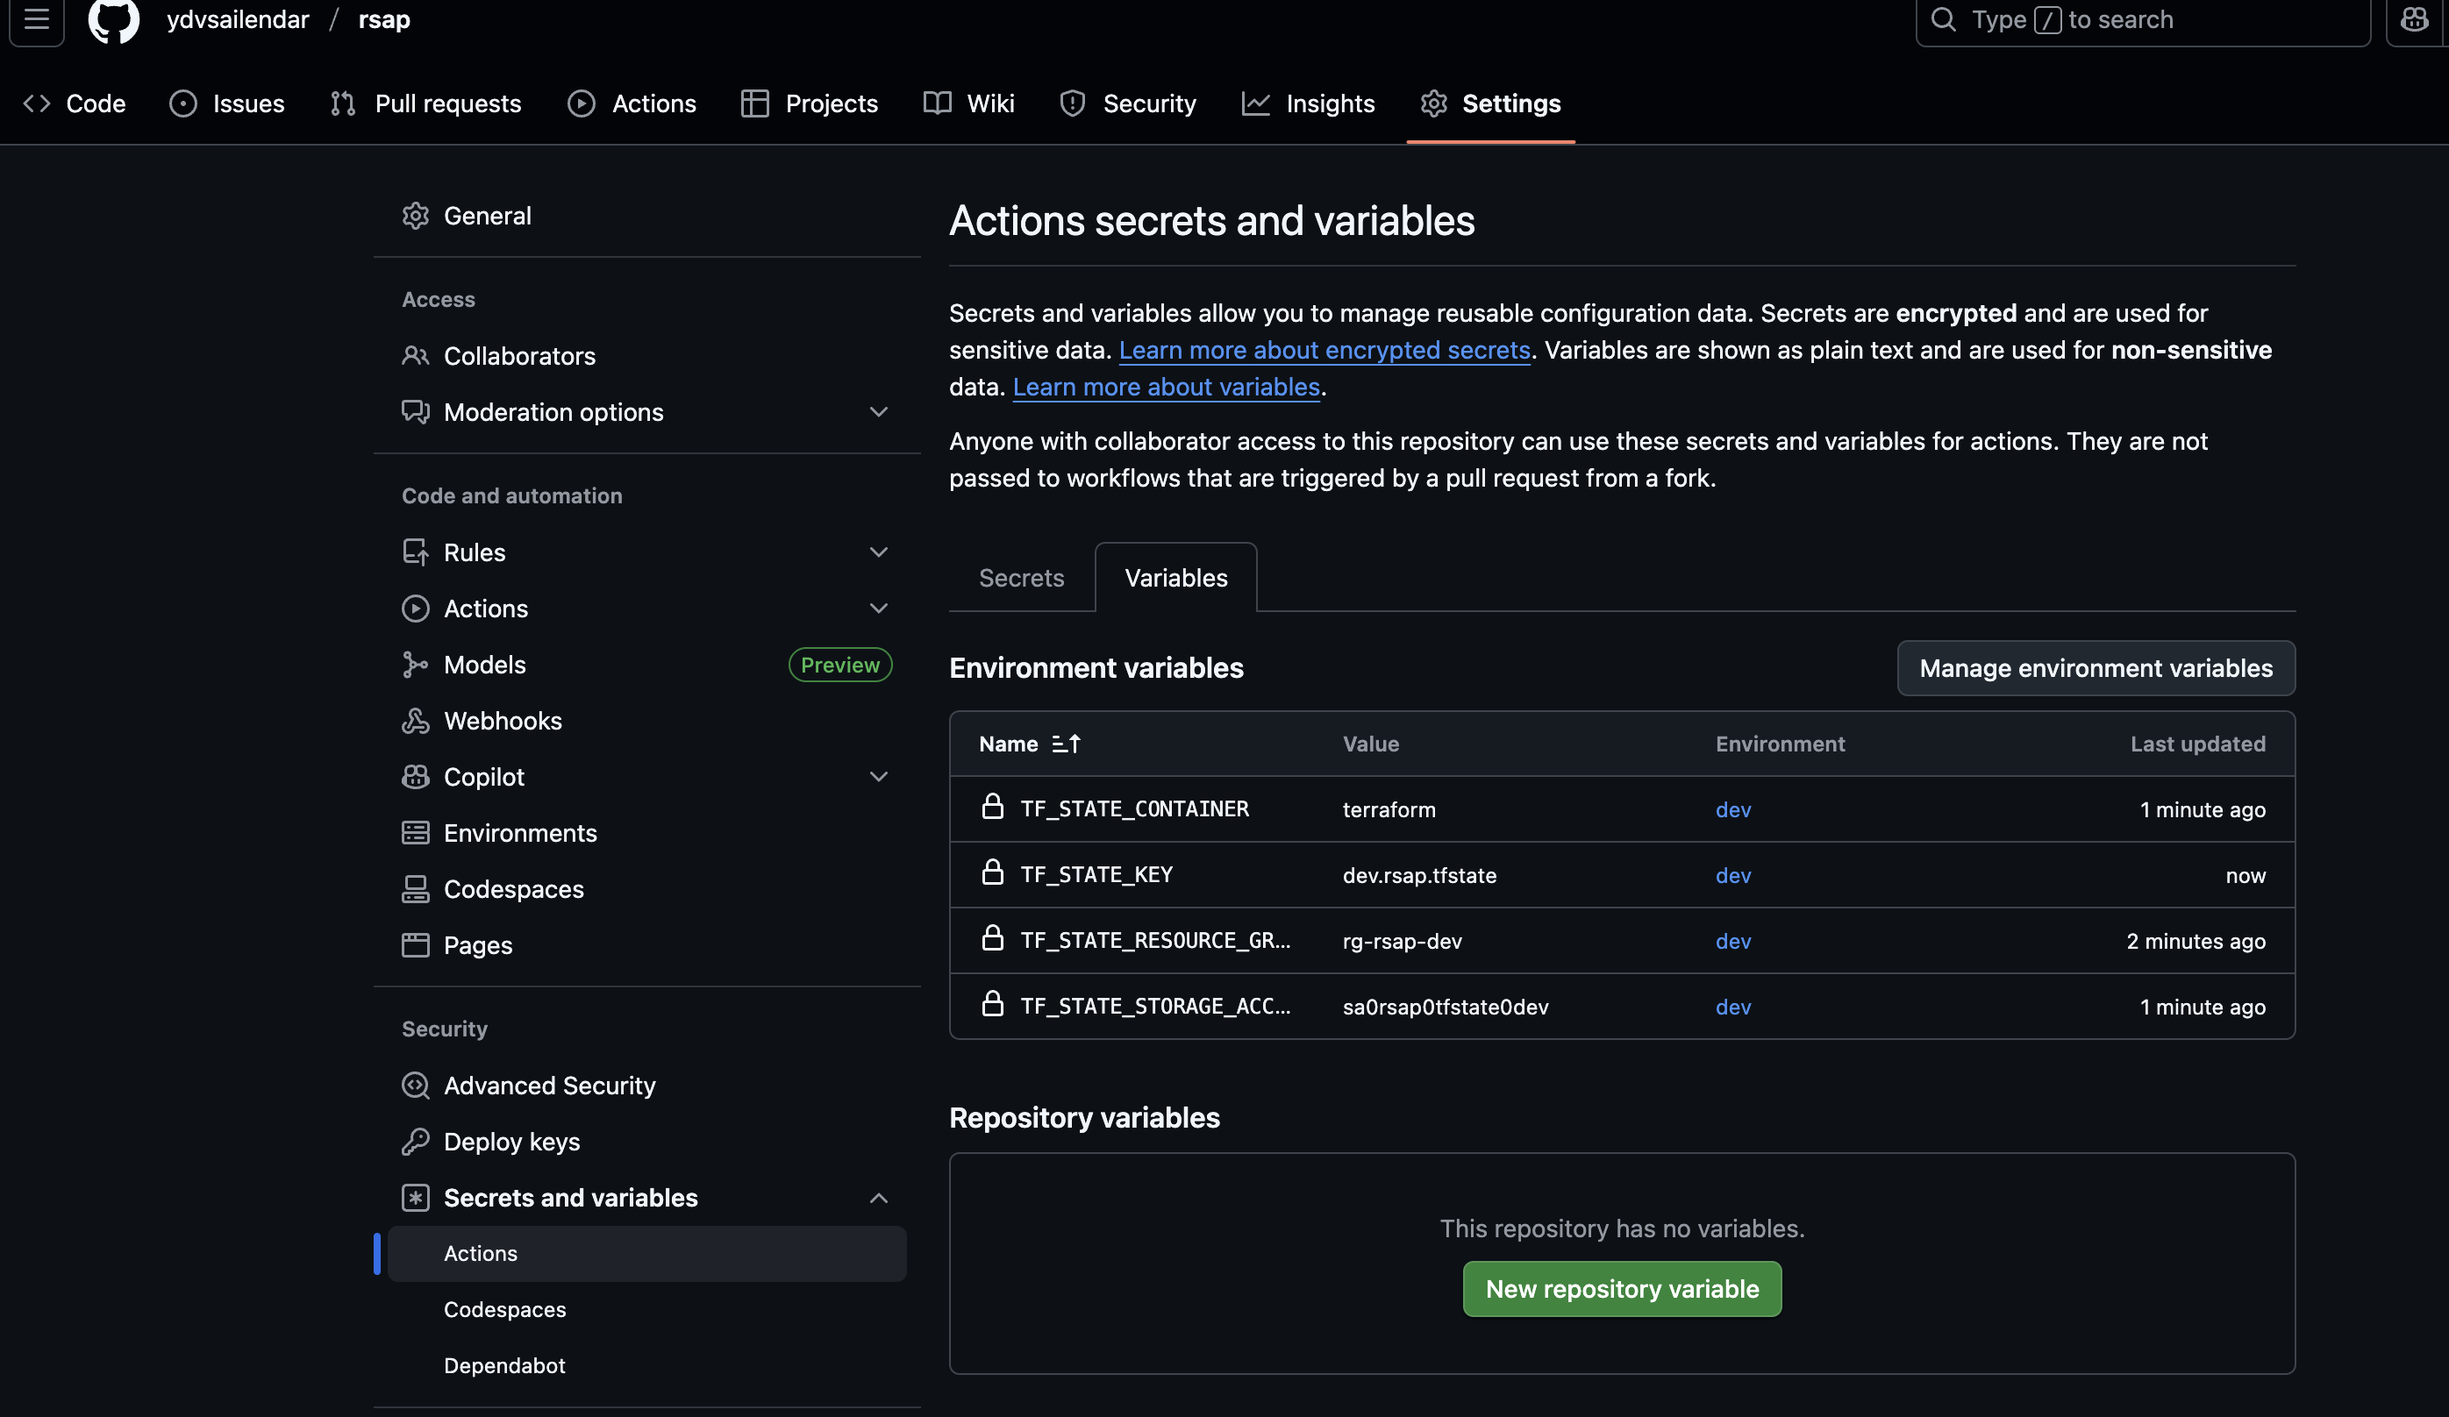
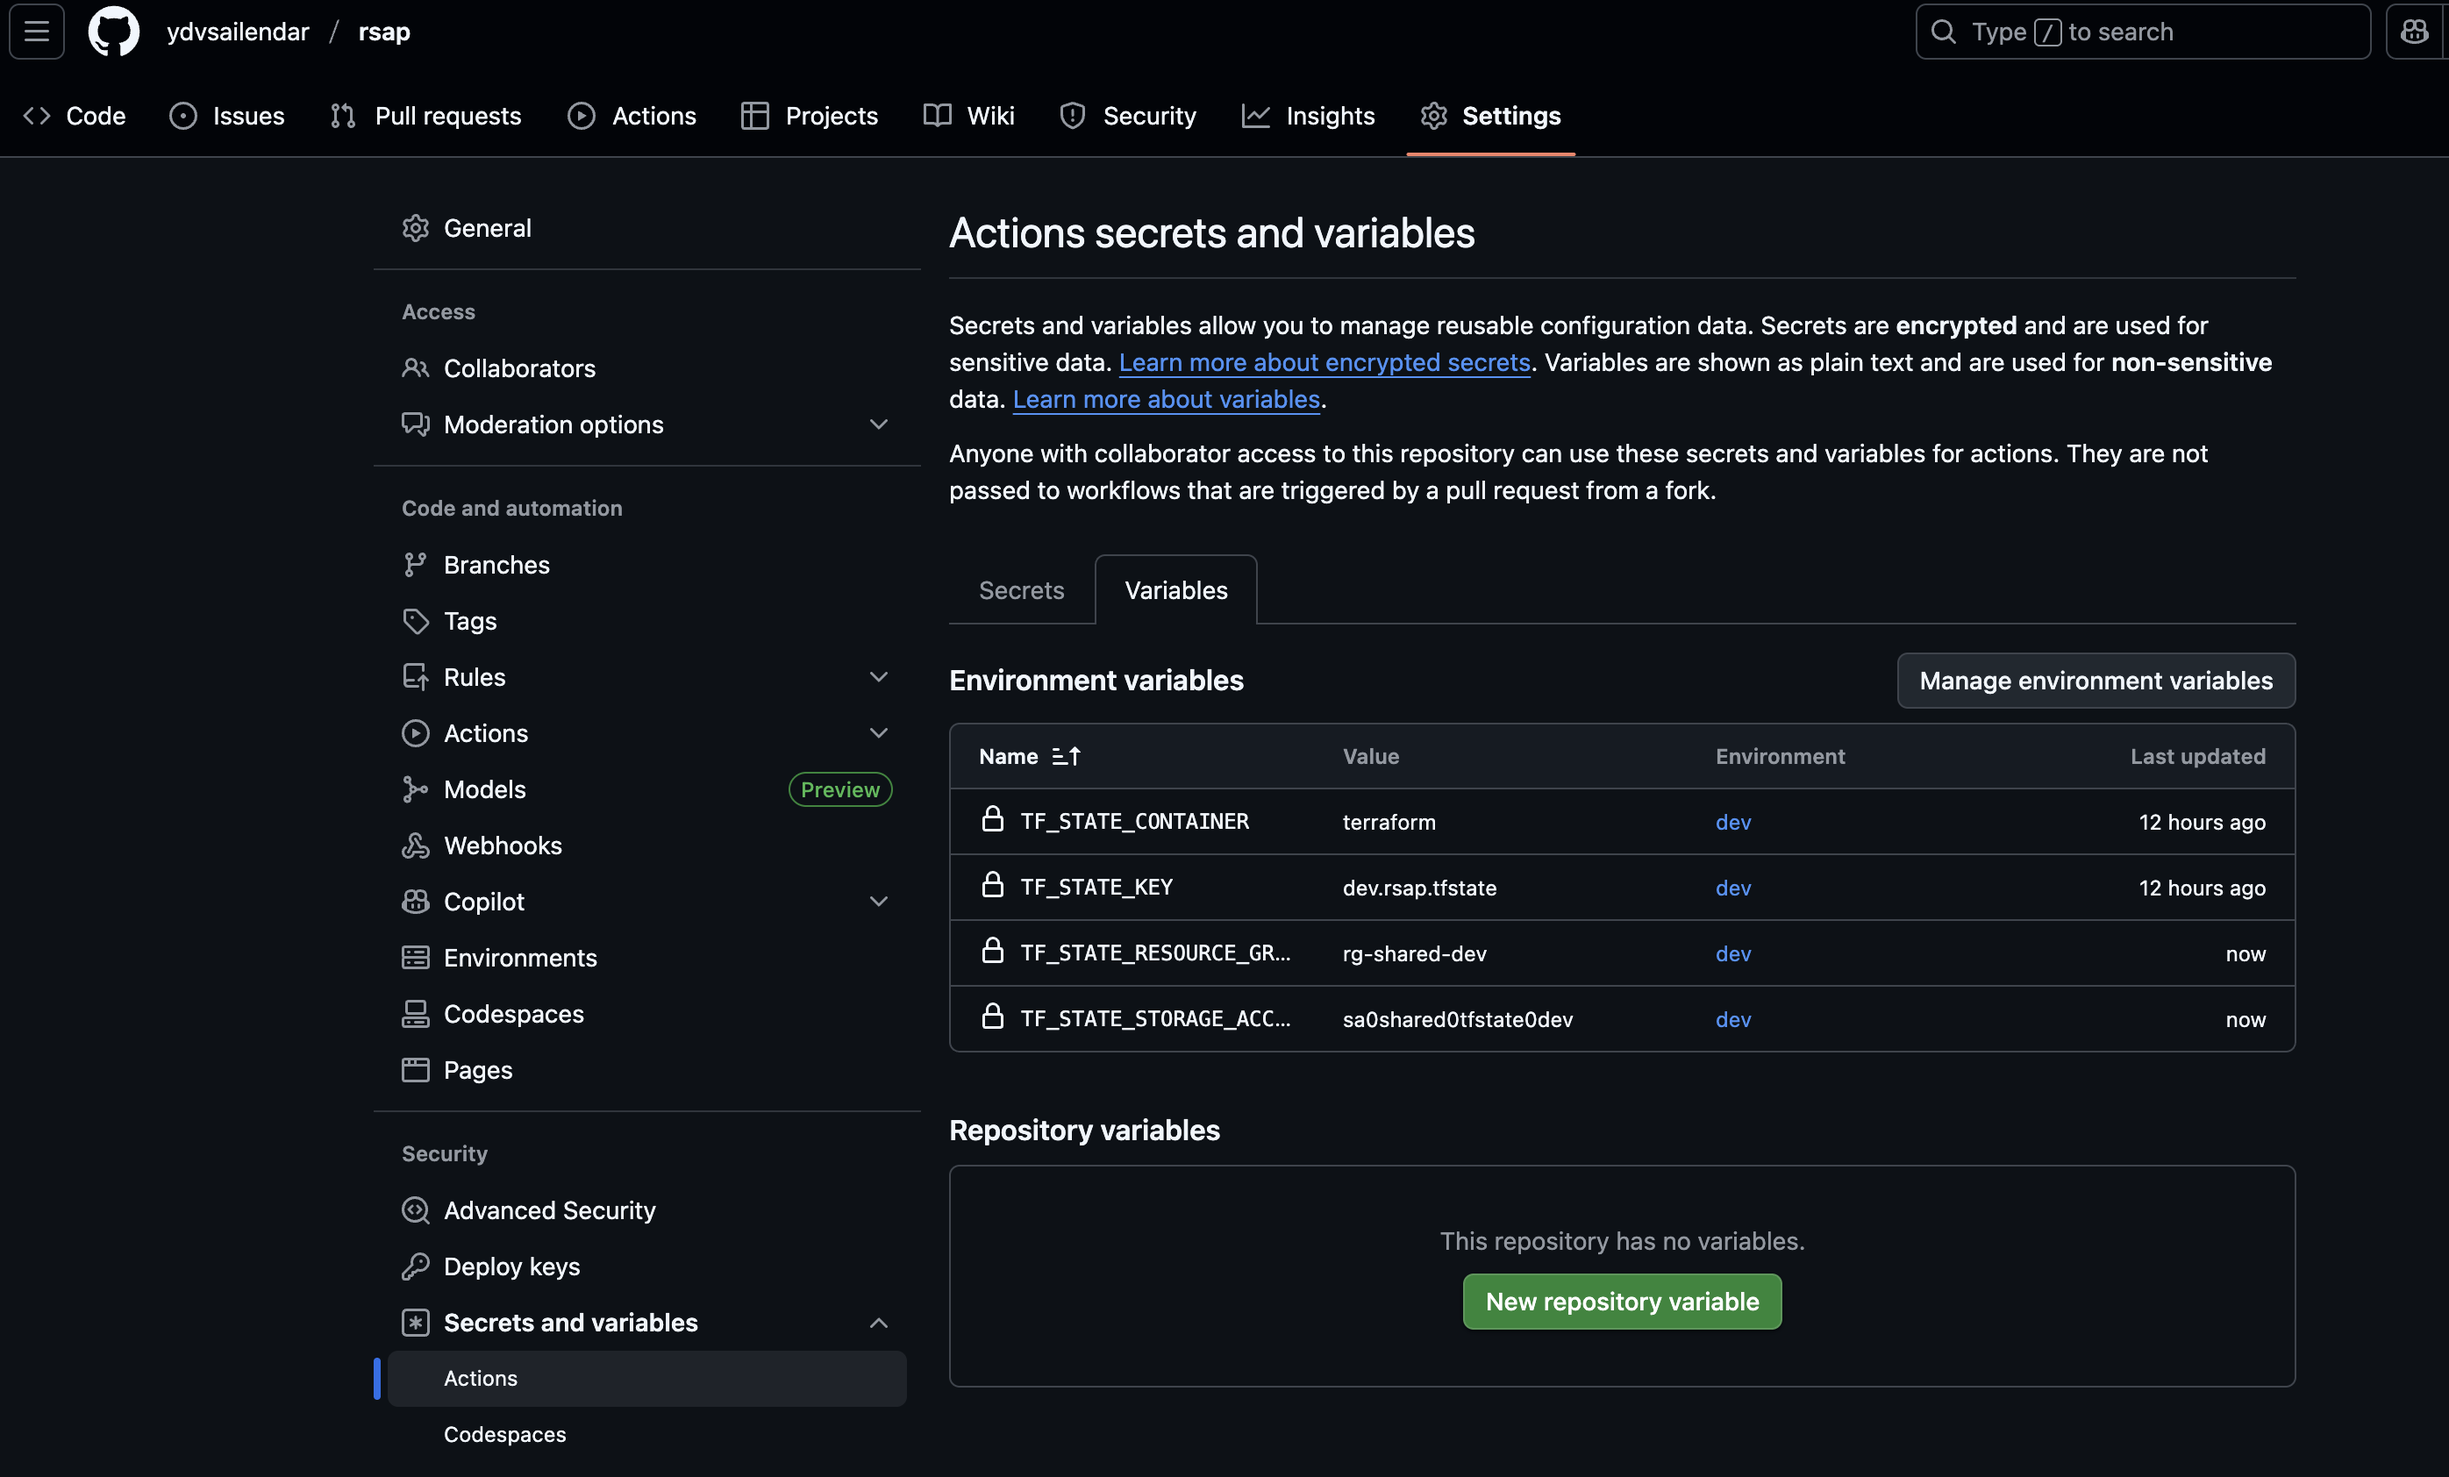
azure provider version and backend config

diff --git a/GITHUB.md b/GITHUB.md
@@ -4,25 +4,19 @@ _*To be followed after pre-requisite is completed (prerequisite.sh)*_
 
 ## Github Secrets for TF Deployment
 
-- Ref: [Az Login](https://github.com/marketplace/actions/azure-login)
+- `appId` and `password` found on the response of create service principal step
+- `SubscriptionId` and `TenantId` can be found as response of below command
+    ```bash
+    az account list --output table
+    ```
 
-- Add the `AZURE_CREDENTIALS` in github actions environemnt specific secrets in json format as shown below
-```json
-{
-    "clientSecret":  "******",
-    "subscriptionId":  "******",
-    "tenantId":  "******",
-    "clientId":  "******"
-}
-```
+- Add Environment Specific ARM Secrets as shown below:
+    - `ARM_CLIENT_ID` -> `appId`
+    - `ARM_CLIENT_SECRET` -> `password`
+    - `ARM_SUBSCRIPTION_ID` -> `SubscriptionId`
+    - `ARM_TENANT_ID` -> `TenantId`
 
-- Where `clientSecret` is `password` && `clientId` is `appId` from the `create service principal` step
-- if you are new to azure you can get the `tenant_id` and `subscription_id` using the az cli or the portal
-```bash
-az account list --output table
-```
-
-![Alt "Github Environment Secrets Az Login SP"](./images/gh-env-secrets-for-tf-az-sp-login.png)
+![Alt "Github Environment Secrets Az Login SP"](./images/gh-env-secrets-for-tf-az-providers.png)
 
 - Add Environment Specific backend configuration as shown below:
     - `TF_STATE_RESOURCE_GROUP`
